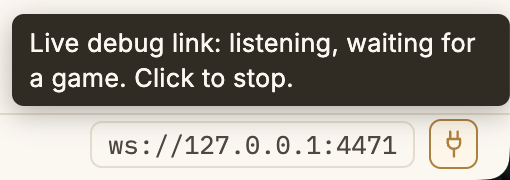
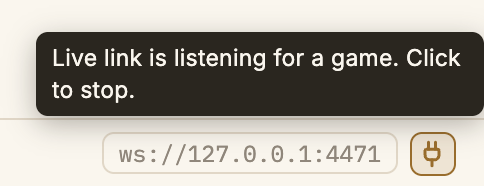
Docs: screenshots retaken from Patterpad 0.17.0
All ten doc images are fresh captures of the released editor on the tour
project, at 2x: the workspace, a snippet, the condition editor, the Play
window, Project settings and the writing-status ladder, Find, the status
badges, the Production information report, and the live-link chip. Alt
text and captions follow the labels the editor shows now.

diff --git a/website/src/content/docs/writing-status.md b/website/src/content/docs/writing-status.md
@@ -56,8 +56,8 @@ small **colour badge in the left gutter** beside each line, tinted by its stage.
 optional overview: flip it off for a clean page again, and it hides itself in **Writing View**.
 
 <figure class="doc-shot">
-  <img src="/doc-images/StatusPills.png" alt="The writing surface with coloured status badges (STUB, FINAL, EDITED) in the left gutter beside each snippet, and the inspector on the right showing a Writing dropdown set to stub." />
-  <figcaption>Line status in the script. Coloured badges in the left gutter (<code>STUB</code>, <code>FINAL</code>, <code>EDITED</code>) tint each line by its stage, while the inspector's <strong>Writing</strong> dropdown (top right) sets the status for the selected beat.</figcaption>
+  <img src="/doc-images/StatusPills.png" alt="The writing surface with coloured status badges (stub, edited, final) in the left gutter beside each snippet, and the inspector on the right showing a Writing dropdown set to stub." />
+  <figcaption>Line status in the script. Coloured badges in the left gutter (<code>stub</code>, <code>edited</code>, <code>final</code>) tint each line by its stage, while the inspector's <strong>Writing</strong> dropdown (top right) sets the status for the selected beat.</figcaption>
 </figure>
 
 ## Where it rolls up

diff --git a/website/src/content/docs/patterpad/conditions-and-data.md b/website/src/content/docs/patterpad/conditions-and-data.md
@@ -23,7 +23,7 @@ It checks as you build, and the finished test shows on the snippet as a quiet `i
 tag. With no condition, the content always shows.
 
 <figure class="doc-shot">
-  <img src="/doc-images/ConditionEditor.png" alt="The visual condition editor: an ALL OF THESE group holding two pill clauses, visits(The Crossroads) is 1 AND random(1,6) is 1, above an Add a clause menu listing property comparison, property is true, node seen, visit count, and random chance." />
+  <img src="/doc-images/ConditionEditor.png" alt="The visual condition editor: one pill clause, visits(The Crossroads) is 1, with a NOT toggle beside it, and beneath it the Add a condition menu listing check flags, property comparison, property is true, node seen, visit count, and random chance." />
   <figcaption>The visual expression editor. Each test is built from <strong>pills</strong> (a function or property, its values, a comparison) and combined with an and / or tree. <strong>Add a clause</strong> offers ready-made shapes, property comparison, node seen, visit count, random chance, so you never have to remember the syntax. Node names show as their titles (here <code>The Crossroads</code>).</figcaption>
 </figure>
 

diff --git a/website/src/content/docs/patterpad/projects-and-settings.md b/website/src/content/docs/patterpad/projects-and-settings.md
@@ -10,7 +10,7 @@ sidebar:
 **File ▸ Project Settings…** (`⌘,`) opens a tabbed dialog.
 
 <figure class="doc-shot">
-  <img src="/doc-images/ProjectSettings.png" alt="The Project settings dialog: a grouped tab list on the left (Project, Story data, Writing and audio, Localisation) with the Audio Status tab open, showing a Track Audio Status switch, an audio root folder, a ladder of recording-status folders, and Use Audio Folders and scratch-recording options." />
+  <img src="/doc-images/ProjectSettings.png" alt="The Project settings dialog: a grouped tab list on the left (Project, Story data, Writing and audio, Localisation) with the Audio status tab open, showing a Track Audio Status switch, an audio root folder, a ladder of recording-status folders, and Use Audio Folders and scratch-recording options." />
   <figcaption>Project settings, with tabs grouped down the left (Project / Story data / Writing &amp; audio / Localisation). The <strong>Audio Status</strong> tab is shown here, mapping each recording stage to a folder on disk.</figcaption>
 </figure>
 

diff --git a/website/src/content/docs/search.md b/website/src/content/docs/search.md
@@ -18,7 +18,7 @@ and the **pin** button keeps it on top. Close it with **✕** or **Escape**.
 ## Finding a line
 
 <figure class="doc-shot">
-  <img src="/doc-images/SearchWindow.png" alt="The floating search window over a dimmed editor: tabs for Text, Replace, Writing, Recording, Property and Tags, a query box holding choice, and a ranked list of BEAT and BLOCK results each showing its scene path and internal id." />
+  <img src="/doc-images/SearchWindow.png" alt="The floating search window over a dimmed editor: tabs for Text, Replace, Writing, Recording, Property and Tags, a query box holding choice, and a ranked list of Beat and Block results each showing its scene path and internal id." />
   <figcaption>The floating search window. Tabs across the top switch modes, Text, Replace, Writing, Recording, Property, Tags; each result shows its kind, its scene path, and its internal id, so a match is never ambiguous. <code>↑ / ↓</code> move, <code>Enter</code> jumps, and you can drag the bar to reposition the window.</figcaption>
 </figure>
 

diff --git a/website/src/content/docs/patterpad/playtesting.md b/website/src/content/docs/patterpad/playtesting.md
@@ -22,7 +22,7 @@ The window is pinned by default, so it stays above the editor while you work. Th
 not above everything else on your screen. Unpin it from its own pin control.
 
 <figure class="doc-shot">
-  <img src="/doc-images/PlayWindow.png" alt="The Play window mid-run: a header reading PLAYING FROM the-patter-tour with speed, closed-caption, audio and pin controls, a transcript of played lines, and a tray of choice buttons at the foot." />
+  <img src="/doc-images/PlayWindow.png" alt="The Play window mid-run: a header reading Playing from the-patter-tour with speed, closed-caption, audio and pin controls, a transcript of played lines, and a tray of choice buttons at the foot." />
   <figcaption>The Play window walks the real runtime. The header shows where the run started, plus speed, closed-caption, audio, and pin controls; played beats build up as a transcript, and eligible choices appear as buttons in the tray at the foot.</figcaption>
 </figure>
 

diff --git a/website/src/content/docs/play/live-debug.md b/website/src/content/docs/play/live-debug.md
@@ -29,7 +29,7 @@ The link is controlled by a small **connect icon** in the **bottom-right corner*
 by the **Play ▸ Live Link** menu item, which is ticked while the link is on).
 
 <figure class="doc-shot is-inset">
-  <img src="/doc-images/LiveDebugLink.png" alt="The live-link chip in the editor's bottom-right corner: the loopback address ws://127.0.0.1:4471 beside an amber connect icon, with a tooltip reading Live link: listening, waiting for a game. Click to stop." />
+  <img src="/doc-images/LiveDebugLink.png" alt="The live-link chip in the editor's bottom-right corner: the loopback address ws://127.0.0.1:4471 beside an amber connect icon, with a tooltip reading Live link is listening for a game. Click to stop." />
   <figcaption>The connect icon, amber and listening. The loopback address <code>ws://127.0.0.1:4471</code> sits beside it (click to copy); hovering spells out the state.</figcaption>
 </figure>
 
